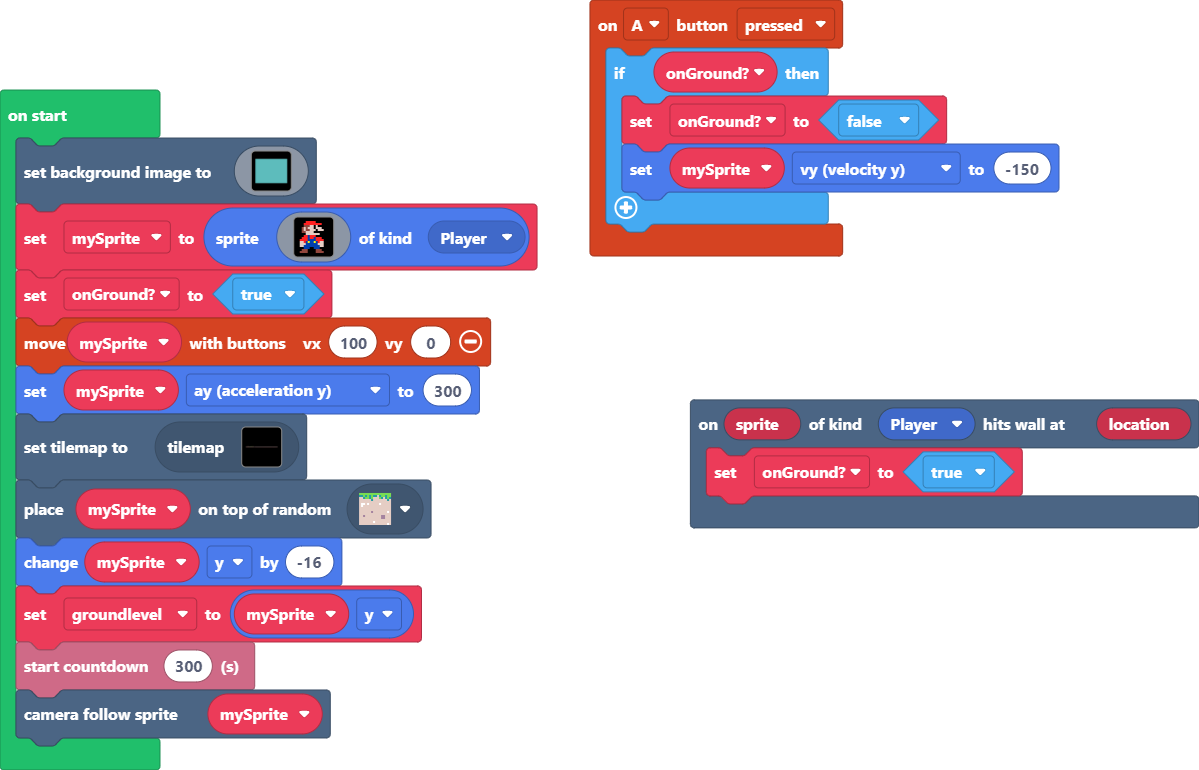
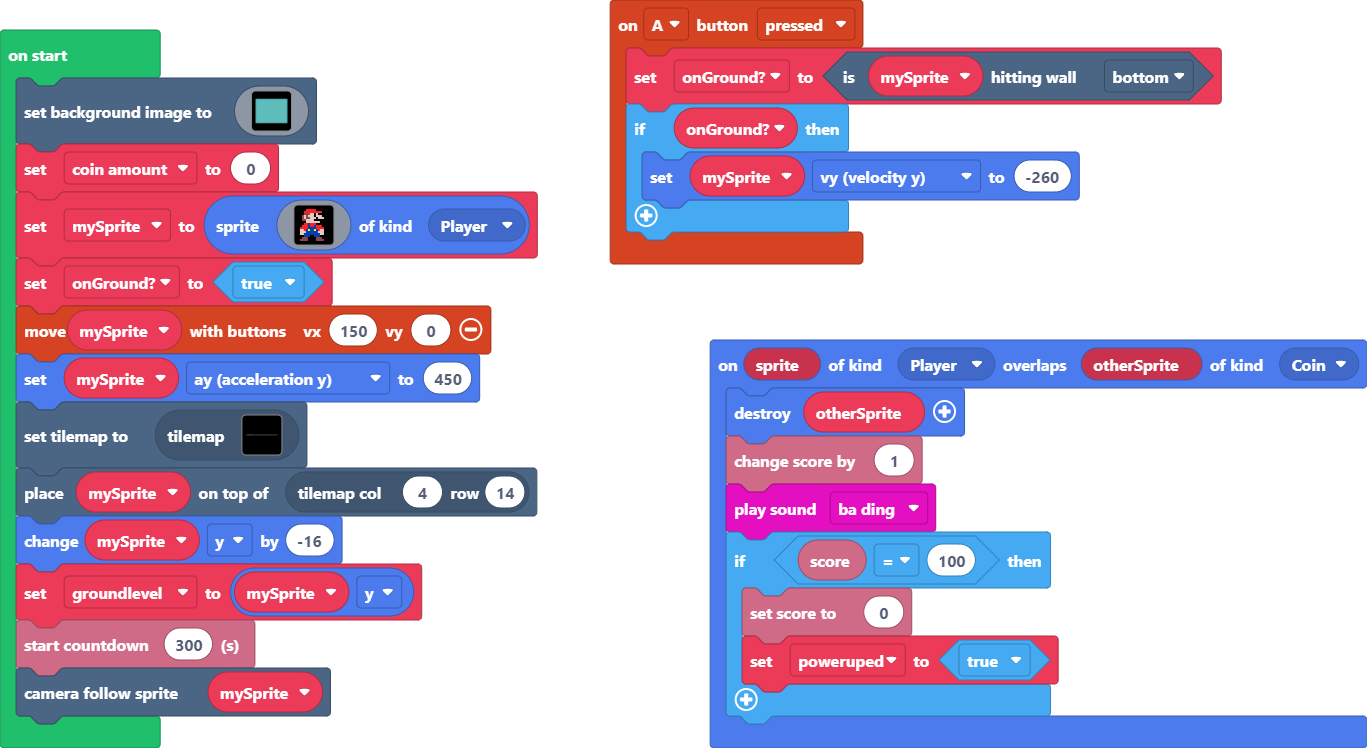
Update pxt.json, main.blocks, main.ts, tilemap.g.jres, tilemap.g.ts

diff --git a/tilemap.g.ts b/tilemap.g.ts
@@ -33,8 +33,8 @@ namespace myTiles {
 ..................................22.......22..........22......................................................................................................................................................................................................
 .........................22.......22.......22..........22......................................................................................................................................................................................................
 .........................22.......22.......22..........22......................................................................................................................................................................................................
-222222222222222222222222222222222222222222222222222222222222222222222222222222222222222222222222222222222222222222222222222222222222222222222222222222222222222222222222222222222222222222222222222222222222222222222222222222222222222222222222222222222222222
-222222222222222222222222222222222222222222222222222222222222222222222222222222222222222222222222222222222222222222222222222222222222222222222222222222222222222222222222222222222222222222222222222222222222222222222222222222222222222222222222222222222222222
+22222222222222222222222222222222222222222222222222222222222222222222..22222222222222222222222222222222222222222222222222222222222222222222222222222222222222222222222222222222222222222222222222222222222222222222222222222222222222222222222222222222222222222
+22222222222222222222222222222222222222222222222222222222222222222222..22222222222222222222222222222222222222222222222222222222222222222222222222222222222222222222222222222222222222222222222222222222222222222222222222222222222222222222222222222222222222222
 `, [myTiles.transparency16,sprites.castle.tilePath2,sprites.castle.tilePath5,myTiles.tile1,myTiles.tile2,myTiles.tile3,myTiles.tile4,myTiles.tile5,tiles.util.object0,tiles.util.object4,sprites.builtin.brick,tiles.util.object5,tiles.util.arrow5,tiles.util.object2,sprites.castle.tilePath1,sprites.castle.tilePath3,sprites.castle.tilePath6,sprites.castle.tilePath4], TileScale.Sixteen);
         }
         return null;

diff --git a/main.ts b/main.ts
@@ -1,12 +1,22 @@
-scene.onHitWall(SpriteKind.Player, function (sprite, location) {
-    onGround = true
-})
-controller.A.onEvent(ControllerButtonEvent.Pressed, function () {
-    if (onGround) {
-        onGround = false
-        mySprite.vy = -150
+namespace SpriteKind {
+    export const Coin = SpriteKind.create()
+}
+sprites.onOverlap(SpriteKind.Player, SpriteKind.Coin, function (sprite, otherSprite) {
+    otherSprite.destroy()
+    info.changeScoreBy(1)
+    music.baDing.play()
+    if (info.score() == 100) {
+        info.setScore(0)
+        poweruped = true
     }
 })
+controller.A.onEvent(ControllerButtonEvent.Pressed, function () {
+    onGround = mySprite.isHittingTile(CollisionDirection.Bottom)
+    if (onGround) {
+        mySprite.vy = -260
+    }
+})
+let poweruped = false
 let onGround = false
 let mySprite: Sprite = null
 scene.setBackgroundImage(img`
@@ -131,6 +141,7 @@ scene.setBackgroundImage(img`
     9999999999999999999999999999999999999999999999999999999999999999999999999999999999999999999999999999999999999999999999999999999999999999999999999999999999999999
     9999999999999999999999999999999999999999999999999999999999999999999999999999999999999999999999999999999999999999999999999999999999999999999999999999999999999999
     `)
+let coin_amount = 0
 mySprite = sprites.create(img`
     . . . . 2 2 2 2 2 . . . . . . . 
     . . . 2 2 2 2 2 2 2 2 2 . . . . 
@@ -150,10 +161,10 @@ mySprite = sprites.create(img`
     . e e e e . . . . e e e e . . . 
     `, SpriteKind.Player)
 onGround = true
-controller.moveSprite(mySprite, 100, 0)
-mySprite.ay = 300
+controller.moveSprite(mySprite, 150, 0)
+mySprite.ay = 450
 tiles.setCurrentTilemap(tilemap`level1`)
-tiles.placeOnRandomTile(mySprite, assets.tile`SpawnBlock`)
+tiles.placeOnTile(mySprite, tiles.getTileLocation(4, 14))
 mySprite.y += -16
 let groundlevel = mySprite.y
 info.startCountdown(300)
